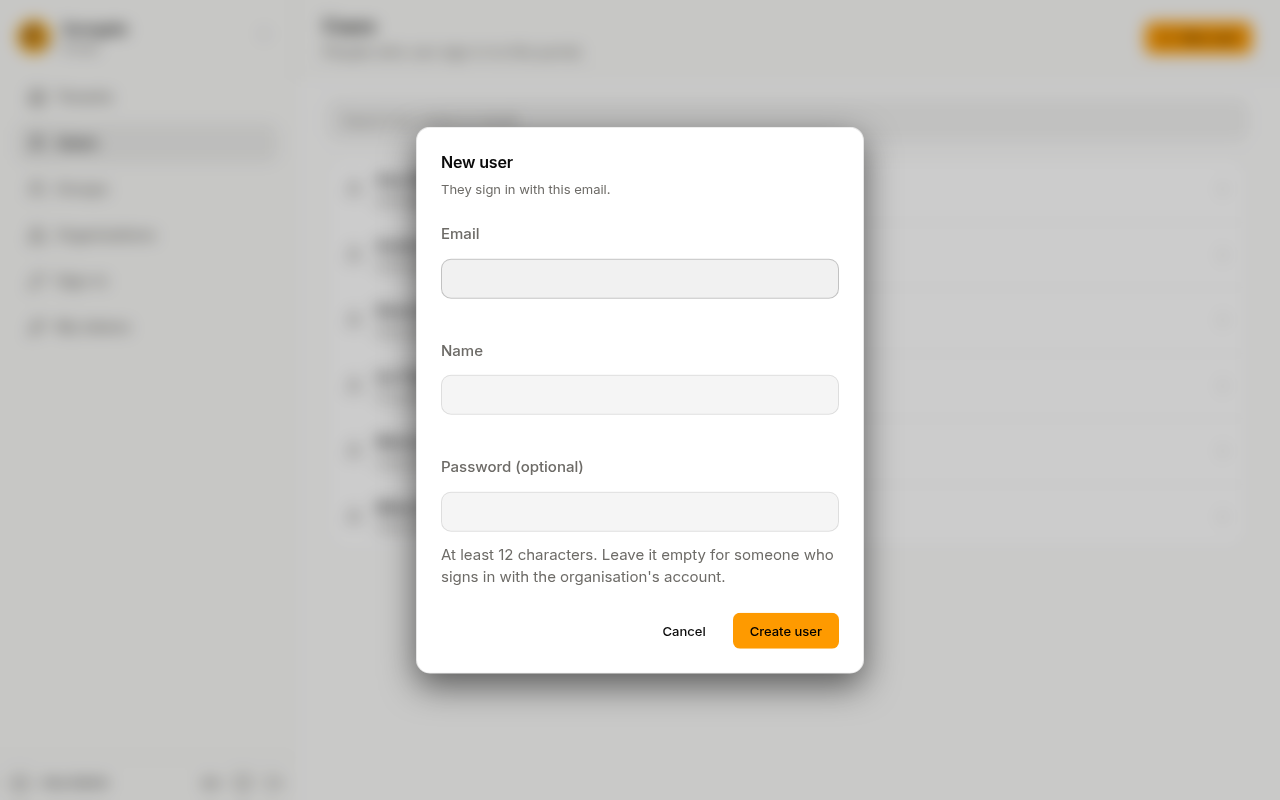
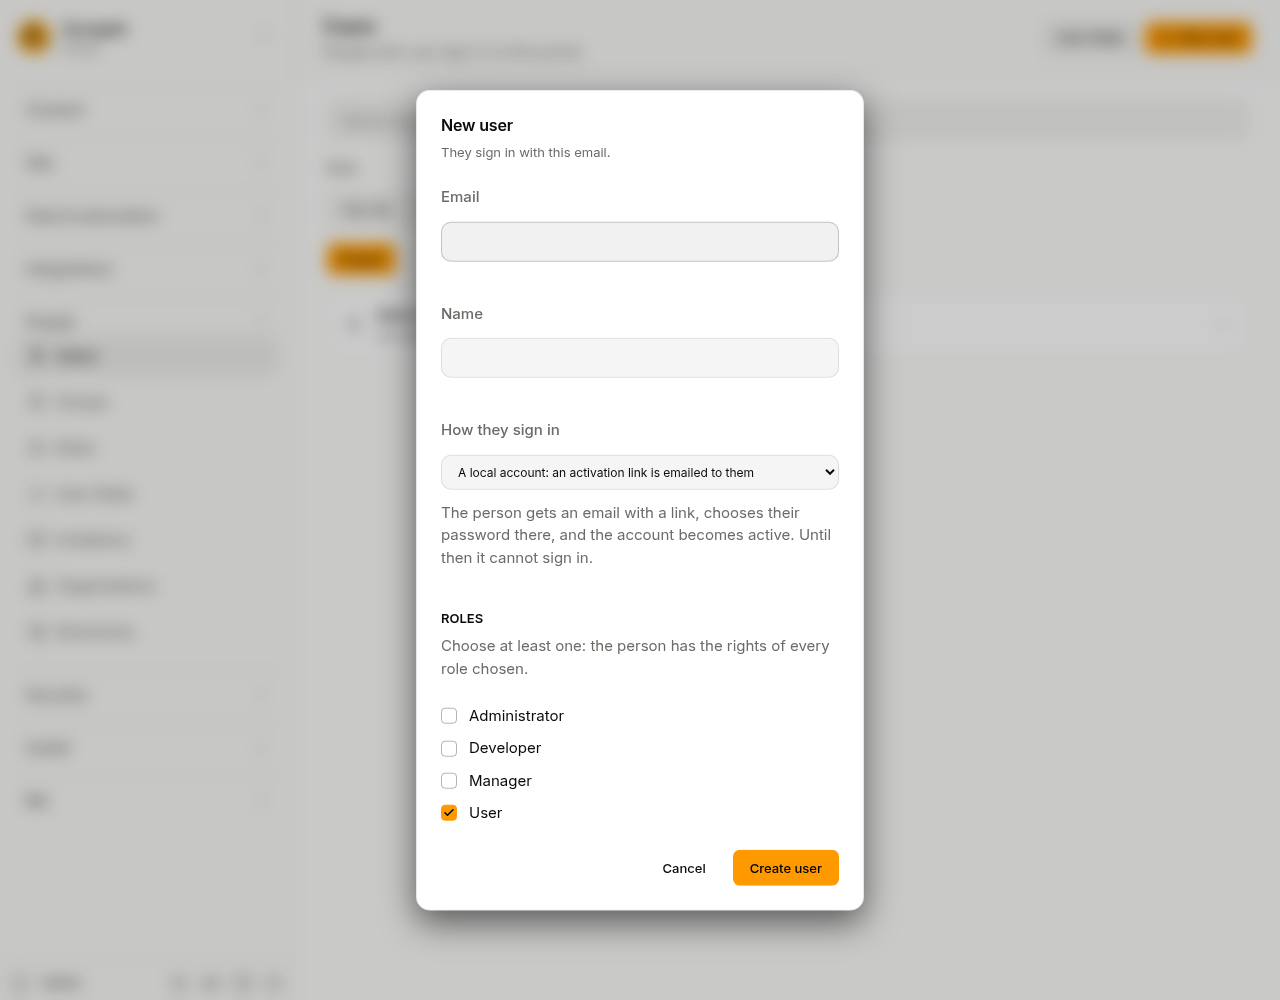
docs(portal): the New user dialog as it is now: how they sign in and roles, no password

diff --git a/tests/test_content.py b/tests/test_content.py
@@ -49,7 +49,7 @@ class Content(unittest.TestCase):
 
     def test_portal_pages_show_the_console(self):
         doc = page('/portal/quickstart/')
-        self.assertIn('<figcaption>The New user dialog: Email, Name and Password (optional).</figcaption>', doc)
+        self.assertIn('<figcaption>The New user dialog: Email, Name, how they sign in and the Roles.</figcaption>', doc)
         self.assertRegex(doc, r'<figure>\s*<img[^>]+src="/_astro/')
         tenants = page('/portal/console/tenants/')
         self.assertIn('Add administrator', tenants)

diff --git a/src/content/docs/portal/console/users.md b/src/content/docs/portal/console/users.md
@@ -31,9 +31,7 @@ The list shows 50 users at a time. Use **Previous** and **Next** to move between
 5. Fill in the portal's own fields, if it has any (a badge number, a department, a county, the entities they work for). Fields marked **Required** must be filled in. A tick box left alone counts as unticked. See [User fields](/portal/console/user-fields/).
 6. Press **Create user**.
 
-![The New user dialog: email, name, password, then the Roles to tick, with User ticked, and the portal's own fields County, Institution and Own entities.](../../../../assets/screenshots/portal-users-new.png)
-
-![The New user window: Email, Name, how they sign in, and the portal's own fields.](../../../../assets/screenshots/portal-auth-user-new.png)
+![The New user dialog: email, name, how they sign in, then the Roles to tick, with User ticked, and the portal's own fields County, Institution, Own entities and Network.](../../../../assets/screenshots/portal-users-new.png)
 
 A local account starts **Unconfirmed**: it has no password and cannot sign in, and its tokens do not work, until its owner proves the address is theirs by opening the link. The link works once, for the days set in the [sign-in policy](/portal/console/sign-in-policy/#passwords-and-sessions) (3 at first), and its page asks for a password that keeps the [password rules](/portal/console/sign-in-policy/#password-rules).
 

diff --git a/src/content/docs/portal/quickstart.md b/src/content/docs/portal/quickstart.md
@@ -23,11 +23,12 @@ The console opens on **Users**. An install administrator lands on **Tenants** in
 
 1. On **Users**, press **New user**.
 2. Type their **Email** and **Name**.
-3. Type a **Password** of at least 12 characters, or leave it empty if they will sign in with your organisation's account.
-4. Fill in any other fields your portal asks for. Fields marked **Required** must be filled in.
-5. Press **Create user**.
+3. Under **How they sign in**, keep **A local account**: the portal emails them a link, and they choose their own password there. Choose another way only if they sign in with your organisation's account.
+4. Under **Roles**, keep **User** ticked.
+5. Fill in any other fields your portal asks for. Fields marked **Required** must be filled in.
+6. Press **Create user**.
 
-![The New user dialog: Email, Name and Password (optional).](../../../assets/screenshots/portal-user-new.png)
+![The New user dialog: Email, Name, how they sign in and the Roles.](../../../assets/screenshots/portal-user-new.png)
 
 The console opens the new user's page.
 
